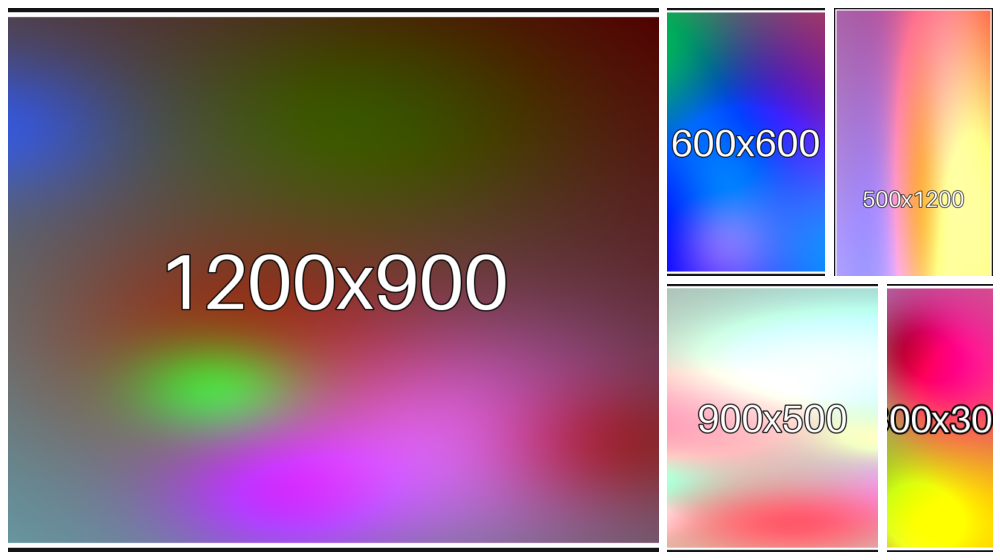
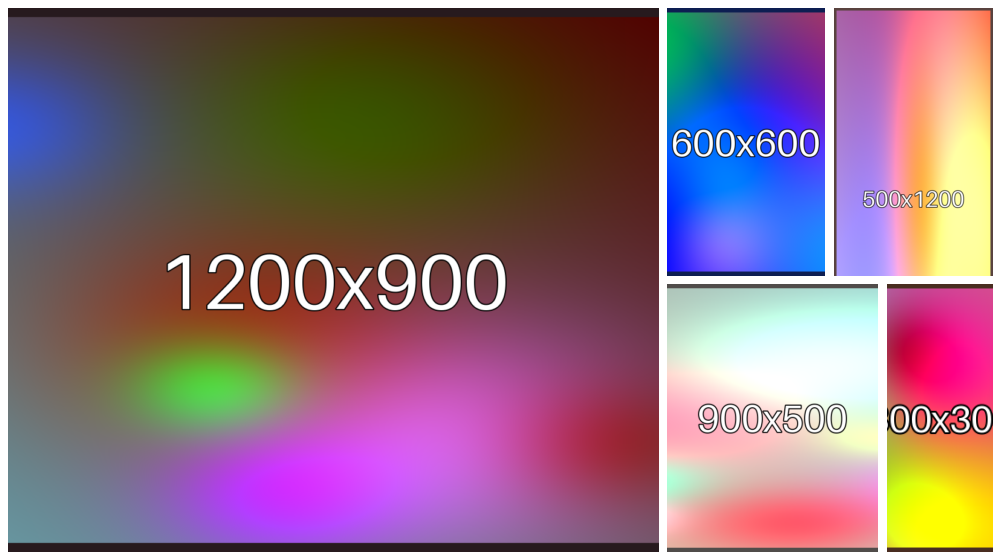
gallery: sample photos get a frame in a dark shade of their own colours

diff --git a/examples/gallery/_kit.py b/examples/gallery/_kit.py
@@ -57,8 +57,8 @@ def draw_plan(plan: Plan[Any], scale: int = 2, size: int = 18) -> np.ndarray:
 
 
 def photo(h: int, w: int, seed: int, caption: bool = True) -> np.ndarray:
-    """A procedural 'photograph' (soft colour blobs) with a frame and its own size printed on it,
-    so crops, letterboxing and resizes are easy to see."""
+    """A procedural 'photograph' (soft colour blobs) with a frame in a dark shade of its own colours and its
+    own size printed on it, so crops, letterboxing and resizes are easy to see."""
     rng = np.random.default_rng(seed)
     yy, xx = np.mgrid[0:h, 0:w].astype(np.float32)
     yy, xx = yy / h, xx / w
@@ -75,11 +75,9 @@ def photo(h: int, w: int, seed: int, caption: bool = True) -> np.ndarray:
         img += blob[..., None] * rng.uniform(-0.5, 0.6, 3)
     out = Image.fromarray((np.clip(img, 0, 1) * 255).astype(np.uint8))
     d = ImageDraw.Draw(out)
-    b = max(2, min(h, w) // 60)
-    k = max(1, b // 2)  # thin dark outer edge so the white frame stays visible on light backgrounds
-    d.rectangle((0, 0, w - 1, h - 1), outline=(20, 20, 24), width=k)
-    if min(h, w) > 2 * k + 2:
-        d.rectangle((k, k, w - 1 - k, h - 1 - k), outline=(255, 255, 255), width=max(1, b - k))
+    # a dark tone of the image's mean colour: visible on light and dark backgrounds alike
+    frame = tuple(int(c * 0.35) for c in img.reshape(-1, 3).mean(0).clip(0, 1) * 255)
+    d.rectangle((0, 0, w - 1, h - 1), outline=frame, width=max(2, min(h, w) // 60))
     if caption:
         d.text((w / 2, h / 2), f"{w}x{h}", font=font(max(10, min(h, w) // 7)), fill=(255, 255, 255),
                anchor="mm", stroke_width=2, stroke_fill=(0, 0, 0))  # fmt: skip
